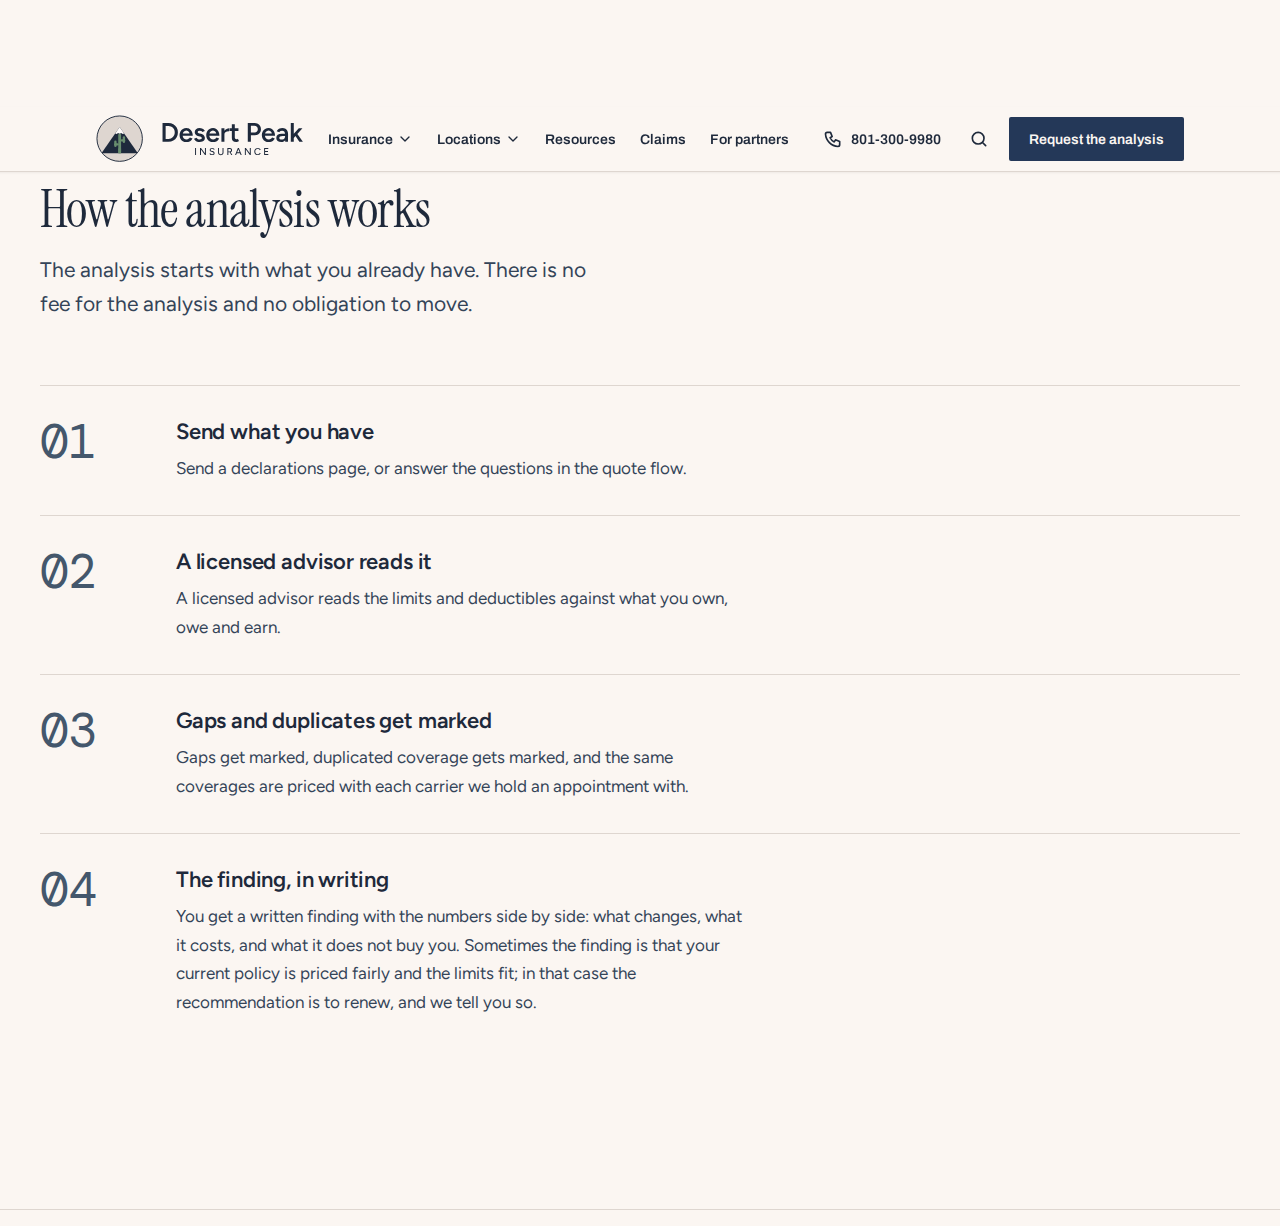
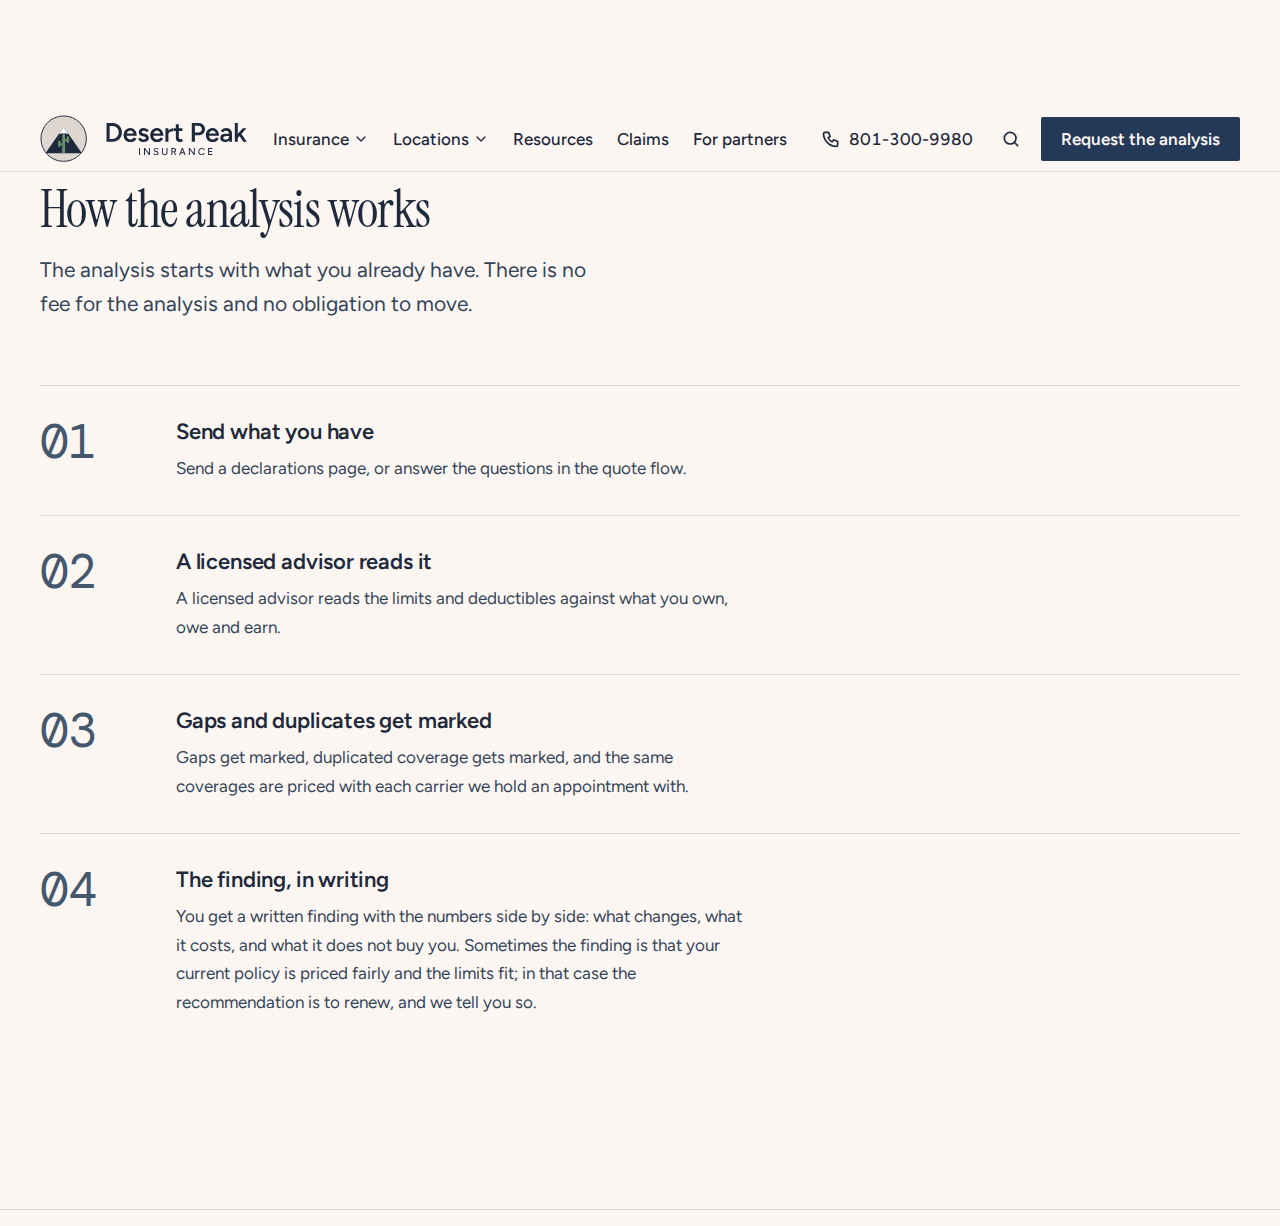
feat(shell): header and footer on the editorial system (phase 5)
Header: transparent over the hero, taking the page surface and a hairline
once the reader is 80px down (was 24px, and it carried a shadow and a
permanent border). Nav, phone and CTA at 17px Figtree; the mega-menu's group
labels are mono eyebrows and its panel lost its shadow — a hairline does the
lifting. Shell width 1280 with the fluid gutter.

Footer: mono column headings, hairline dividers between the five columns,
links at 17px with 44px targets, and the compliance strip at 17px in
ink-inverse-secondary (10.20:1) rather than 12px. That strip is legal text
for an audience that skews older; it is now set to be read. Every link and
every disclosure is unchanged in wording, placement and visibility.

One conflict with §5: "phone number always visible ≥1024px". At 17px nav the
bar cannot hold the lockup, five entries, the number, search and the CTA at
1024 — the first pass overflowed the viewport by 24px. The number stays an
icon with a screen-reader label from 1024 and shows in full from 1280, as
DECISIONS.md already records; trimming the horizontal padding below xl got
the bar back inside 1024. Dropping the CTA instead would have cost the page
its one primary action on that whole range.

Checked at 320/768/1024/1280/1920: no horizontal scroll, no interactive
target under 44px in the shell (the 1px item is the sr-only skip link, which
takes its padding on focus), and the header's two states measure transparent
at rest and surface + hairline at 300px of scroll.
[…]

Changed region(s): [[0.0312, 0.093, 0.9688, 0.155]]

diff --git a/src/components/site/header.tsx b/src/components/site/header.tsx
@@ -25,15 +25,15 @@ export async function Header() {
   const [site, products, allStates] = await Promise.all([getSiteSettings(), getProducts(), getStates()]);
   const states = orderStates(allStates);
   const groups = GROUPS.map((g) => ({ ...g, ...groupProducts(products, g.key) }));
-  const top = "ui-link flex min-h-11 items-center gap-1 whitespace-nowrap px-2 font-sans text-small font-semibold text-ink hover:text-brand";
-  const item = "ui-link block min-h-6 py-1 font-sans text-small text-ink hover:text-brand";
-  const panel = "absolute left-0 top-full z-30 mt-1 hidden rounded-surface border border-border bg-surface-raised p-6 shadow-2 group-open:block";
+  const top = "ui-link flex min-h-11 items-center gap-1 whitespace-nowrap px-1 font-text text-copy font-medium text-ink hover:text-brand xl:px-2";
+  const item = "ui-link block min-h-11 font-text text-copy text-ink hover:text-brand";
+  const panel = "absolute left-0 top-full z-30 hidden rounded-surface border border-border bg-surface-raised p-6 group-open:block";
   const quick = [...products.filter((p) => p.tier === "1").slice(0, 4).map((p) => ({ label: p.name, href: productPath(p) })), ...states.map((s) => ({ label: s.name, href: statePath(s) })), { label: "Glossary", href: "/resources/glossary/" }];
   return (
-    <header data-shell-header data-compact="false" className="sticky top-0 z-40 border-b border-border bg-logo-ground shadow-0">
+    <header data-shell-header data-compact="false" className="sticky top-0 z-40">
       <HeaderBehaviour />
-      <a href="#main" className="sr-only focus:not-sr-only focus:absolute focus:left-4 focus:top-4 focus:z-50 focus:rounded-control focus:bg-surface-raised focus:px-4 focus:py-2 focus:font-sans focus:text-small">Skip to content</a>
-      <div className="shell-bar mx-auto flex max-w-measure-page items-center justify-between gap-4 px-4 md:px-8">
+      <a href="#main" className="sr-only focus:not-sr-only focus:absolute focus:left-4 focus:top-4 focus:z-50 focus:rounded-control focus:bg-surface-raised focus:px-4 focus:py-2 focus:font-text focus:text-copy">Skip to content</a>
+      <div className="shell-bar shell flex items-center justify-between gap-4">
         <Link href="/" className="ui-link shrink-0 py-2" aria-label="Desert Peak Insurance, home">
           <span className="lockup-full"><Lockup height="header" /></span>
           <span className="lockup-mark"><Mark height={40} /></span>
@@ -47,7 +47,7 @@ export async function Header() {
                   <div className="grid gap-6 sm:grid-cols-2 lg:grid-cols-4">
                     {groups.map((g) => (
                       <div key={g.key}>
-                        <p className="mb-2 font-sans text-small font-semibold text-ink">{g.name}</p>
+                        <p className="eyebrow mb-2">{g.name}</p>
                         {g.headline.map((p) => <Link key={p.id} href={productPath(p)} className={item}>{p.name}</Link>)}
                       </div>
                     ))}
@@ -70,12 +70,12 @@ export async function Header() {
         </nav>
         <div className="flex shrink-0 items-center gap-1 sm:gap-2">
           {site.phoneHref ? (
-            <a href={site.phoneHref} className="ui-link inline-flex min-h-11 min-w-11 items-center justify-center gap-2 rounded-control px-2 font-sans text-small font-semibold text-ink hover:bg-surface-sunken" data-contact>
+            <a href={site.phoneHref} className="ui-link inline-flex min-h-11 min-w-11 items-center justify-center gap-2 rounded-control px-2 font-text text-copy font-medium text-ink hover:bg-surface-sunken" data-contact>
               <IconPhone /> <span className="hidden whitespace-nowrap xl:inline tabular">{site.phone}</span><span className="sr-only xl:hidden">Call {site.phone}</span>
             </a>
           ) : null}
           <SearchDialog quickLinks={quick.map((q) => <Link key={q.href} href={q.href} className="ui-link text-brand">{q.label}</Link>)} />
-          <Link href="/quote/" className="hidden min-h-11 items-center whitespace-nowrap rounded-control bg-brand px-5 font-sans text-small font-semibold text-brand-ink no-underline hover:bg-brand-hover sm:inline-flex">{CTA}</Link>
+          <Link href="/quote/" className="hidden min-h-11 items-center whitespace-nowrap rounded-control bg-brand px-4 font-text text-copy font-semibold text-brand-ink no-underline hover:bg-brand-hover sm:inline-flex xl:px-5">{CTA}</Link>
           <details data-drawer className="group lg:hidden">
             <summary className="inline-flex min-h-11 min-w-11 items-center justify-center rounded-control border border-border-strong text-ink" aria-label="Menu">
               <span className="group-open:hidden"><IconMenu /></span><span className="hidden group-open:inline"><IconClose /></span>
@@ -84,24 +84,24 @@ export async function Header() {
               <nav aria-label="Primary, phone" className="grid content-start gap-6 px-4 py-6">
                 {groups.map((g) => (
                   <div key={g.key} className="grid gap-1">
-                    <p className="font-sans text-small font-semibold text-ink-muted">{g.name}</p>
-                    {g.headline.map((p) => <Link key={p.id} href={productPath(p)} className="ui-link min-h-11 font-sans text-body text-ink">{p.name}</Link>)}
+                    <p className="eyebrow">{g.name}</p>
+                    {g.headline.map((p) => <Link key={p.id} href={productPath(p)} className="ui-link min-h-11 font-text text-copy text-ink">{p.name}</Link>)}
                   </div>
                 ))}
-                <Link href="/insurance/" className="ui-link min-h-11 font-sans text-body font-semibold text-brand">All {products.length} lines</Link>
+                <Link href="/insurance/" className="ui-link min-h-11 font-text text-copy font-semibold text-brand">All {products.length} lines</Link>
                 <div className="grid gap-1 border-t border-border pt-6">
-                  <p className="font-sans text-small font-semibold text-ink-muted">Licensed in</p>
-                  {states.map((s) => <Link key={s.id} href={statePath(s)} className="ui-link min-h-11 font-sans text-body text-ink">{s.name}</Link>)}
-                  <Link href="/locations/" className="ui-link min-h-11 font-sans text-body font-semibold text-brand">Every city</Link>
+                  <p className="eyebrow">Licensed in</p>
+                  {states.map((s) => <Link key={s.id} href={statePath(s)} className="ui-link min-h-11 font-text text-copy text-ink">{s.name}</Link>)}
+                  <Link href="/locations/" className="ui-link min-h-11 font-text text-copy font-semibold text-brand">Every city</Link>
                 </div>
                 <div className="grid gap-1 border-t border-border pt-6">
-                  {TOP.map(([label, href]) => <Link key={href} href={href} className="ui-link min-h-11 font-sans text-body text-ink">{label}</Link>)}
-                  <Link href="/contact/" className="ui-link min-h-11 font-sans text-body text-ink">Contact</Link>
+                  {TOP.map(([label, href]) => <Link key={href} href={href} className="ui-link min-h-11 font-text text-copy text-ink">{label}</Link>)}
+                  <Link href="/contact/" className="ui-link min-h-11 font-text text-copy text-ink">Contact</Link>
                 </div>
               </nav>
               <div className="sticky bottom-0 mt-auto grid grid-cols-2 gap-3 border-t border-border bg-surface-raised px-4 py-3">
-                {site.phoneHref ? <a href={site.phoneHref} className="inline-flex min-h-11 items-center justify-center gap-2 rounded-control border border-border-strong font-sans text-small font-semibold text-ink no-underline tabular"><IconPhone />{site.phone}</a> : <span />}
-                <Link href="/quote/" className="inline-flex min-h-11 items-center justify-center rounded-control bg-brand px-4 font-sans text-small font-semibold text-brand-ink no-underline">{CTA}</Link>
+                {site.phoneHref ? <a href={site.phoneHref} className="inline-flex min-h-11 items-center justify-center gap-2 rounded-control border border-border-strong font-text text-copy font-semibold text-ink no-underline tabular"><IconPhone />{site.phone}</a> : <span />}
+                <Link href="/quote/" className="inline-flex min-h-11 items-center justify-center rounded-control bg-brand px-4 font-text text-copy font-semibold text-brand-ink no-underline">{CTA}</Link>
               </div>
             </div>
           </details>

diff --git a/src/components/site/footer.tsx b/src/components/site/footer.tsx
@@ -7,7 +7,9 @@ import { IconFacebook, IconInstagram } from "../ui/icons.tsx";
 import { Lockup } from "../ui/logo.tsx";
 
 /**
- * Footer on surface-inverse (the neutral-950 token). Contact block, five
+ * Footer on surface-inverse. Mono column headings, hairline dividers, links and disclosures at body size —
+ * the compliance strip is legal text for an audience that skews older, so it is set to be read, not to be
+ * technically present. Contact block, five
  * columns, then the compliance strip in this order: independent-agency line,
  * licensed-states line with each state's disclosure page, the Medicare TPMO
  * disclaimer on every page, the copyright, social as labelled icons. Long
@@ -16,35 +18,35 @@ import { Lockup } from "../ui/logo.tsx";
 export async function Footer() {
   const [site, compliance, products, allStates] = await Promise.all([getSiteSettings(), getCompliance(), getProducts(), getStates()]);
   const states = orderStates(allStates);
-  const col = "grid content-start gap-2 font-sans text-small";
-  const head = "mb-1 font-sans text-small font-semibold text-ink-inverse";
-  const link = "ui-link text-ink-inverse";
+  const col = "grid content-start gap-1 font-text text-copy";
+  const head = "eyebrow mb-3 text-ink-inverse-secondary";
+  const link = "ui-link min-h-11 text-ink-inverse";
   const groups = GROUPS.map((g) => ({ ...g, ...groupProducts(products, g.key) }));
   const address = site.address && [site.address.street, site.address.city, site.address.zip].some((v) => v && !hasTodo(v)) ? site.address : null;
   const year = new Date().getFullYear();
   return (
     <footer data-inverse className="mt-16 bg-logo-ground-inverse text-ink-inverse [overflow-wrap:anywhere] print:hidden">
-      <div className="mx-auto grid max-w-measure-page gap-10 px-4 py-12 md:grid-cols-3 lg:grid-cols-[2fr_1fr_1fr_1fr_1fr_1fr] md:px-8">
+      <div className="shell grid gap-10 py-20 md:grid-cols-3 lg:grid-cols-[2fr_1fr_1fr_1fr_1fr_1fr] lg:gap-0">
         <div className="grid content-start gap-4 md:col-span-3 lg:col-span-1">
           <Link href="/" className="ui-link w-fit py-2 text-ink-inverse no-underline" aria-label="Desert Peak Insurance, home"><Lockup reversed height={56} lazy /></Link>
-          <div className="grid gap-1 font-sans text-small">
+          <div className="grid gap-1 font-text text-copy">
             {site.phoneHref ? <a href={site.phoneHref} className={`${link} tabular`} data-contact>{site.phone}</a> : null}
             {site.email ? <a href={`mailto:${site.email}`} className={link}>{site.email}</a> : null}
             {address ? <p className="text-ink-inverse">{[address.street, [address.city, typeof address.state === "object" ? address.state?.abbr : null].filter(Boolean).join(", "), address.zip].filter((v) => v && !hasTodo(v)).join(" · ")}</p> : null}
             <Link href="/contact/" className={link}>Contact</Link>
           </div>
         </div>
-        <nav aria-label="Insurance" className={col}>
+        <nav aria-label="Insurance" className={`${col} lg:border-l lg:border-ink-inverse/25 lg:pl-6`}>
           <p className={head}>Insurance</p>
           {groups.map((g) => <Link key={g.key} href={`/insurance/#g-${g.category}`} className={link}>{g.name}</Link>)}
           <Link href="/insurance/" className={`${link} font-semibold`}>All lines</Link>
         </nav>
-        <nav aria-label="Licensed in" className={col}>
+        <nav aria-label="Licensed in" className={`${col} lg:border-l lg:border-ink-inverse/25 lg:pl-6`}>
           <p className={head}>Licensed in</p>
           {states.map((s) => <Link key={s.id} href={statePath(s)} className={link}>{s.name}</Link>)}
           <Link href="/locations/" className={`${link} font-semibold`}>Every city</Link>
         </nav>
-        <nav aria-label="Resources" className={col}>
+        <nav aria-label="Resources" className={`${col} lg:border-l lg:border-ink-inverse/25 lg:pl-6`}>
           <p className={head}>Resources</p>
           <Link href="/resources/" className={link}>Guides</Link>
           <Link href="/resources/glossary/" className={link}>Glossary</Link>
@@ -52,12 +54,12 @@ export async function Footer() {
           <Link href="/about/editorial-policy/" className={link}>Editorial policy</Link>
           <Link href="/billing/" className={link}>Billing</Link>
         </nav>
-        <nav aria-label="For partners" className={col}>
+        <nav aria-label="For partners" className={`${col} lg:border-l lg:border-ink-inverse/25 lg:pl-6`}>
           <p className={head}>For partners</p>
           <Link href="/partners/" className={link}>Work with us</Link>
           <Link href="/partners/portal/" className={link}>Partner portal</Link>
         </nav>
-        <nav aria-label="Legal" className={col}>
+        <nav aria-label="Legal" className={`${col} lg:border-l lg:border-ink-inverse/25 lg:pl-6`}>
           <p className={head}>Legal</p>
           <Link href="/legal/privacy-policy/" className={link}>Privacy</Link>
           <Link href="/legal/terms-of-use/" className={link}>Terms</Link>
@@ -66,8 +68,8 @@ export async function Footer() {
           <Link href="/sitemap/" className={link}>Site map</Link>
         </nav>
       </div>
-      <div className="border-t border-ink-muted">
-        <div className="mx-auto grid max-w-measure-page gap-3 px-4 py-6 font-sans text-caption text-ink-inverse md:px-8">
+      <div className="border-t border-ink-inverse/25">
+        <div className="shell grid gap-4 py-10 font-text text-copy text-ink-inverse-secondary">
           <p data-disclosure="independentAgency">{compliance.independentAgencyDisclosure}</p>
           <p data-disclosure="licensedStates">
             Licensed in {states.map((s, i) => <span key={s.id}>{i > 0 ? (i === states.length - 1 ? " and " : ", ") : ""}<Link href={`/legal/licensing/${s.slug}/`} className={link}>{s.name}</Link></span>)}. Each state&rsquo;s licensing disclosure lists the license number.

diff --git a/app/(frontend)/globals.css b/app/(frontend)/globals.css
@@ -102,6 +102,10 @@
   .cf-turnstile iframe { display: block; }
   /* tokens-ok: the kicker's 0.08em tracking is specified in BRAND-GUIDE.md §3 ("uppercase with 0.08em tracking") and has no token of its own */
   .kicker { font-family: var(--dp-font-sans); font-size: var(--dp-text-caption-size); line-height: var(--dp-text-caption-line-height); font-weight: var(--dp-text-caption-weight); letter-spacing: 0.08em; text-transform: uppercase; color: var(--dp-ink-muted); }
+  /* The bar is transparent over the hero and takes the page surface plus a hairline once the reader has scrolled past
+     the fold's first 80 px. Sticky, not fixed, so the transparent state shows the page's own ground, never content. */
+  [data-shell-header] { background: transparent; border-bottom: 1px solid transparent; transition: background var(--dp-duration-base) var(--dp-ease-standard), border-color var(--dp-duration-base) var(--dp-ease-standard); }
+  [data-shell-header][data-compact="true"] { background: var(--dp-surface); border-bottom-color: var(--dp-border); }
   /* Header bar: 64 px on phones (56 once the page has scrolled), 80 px from 768 px (64 scrolled) so the 48 px lockup has room; data-compact is set by header-client.tsx. */
   .shell-bar { height: var(--dp-space-16); transition: height var(--dp-duration-fast) var(--dp-ease-standard); }
   [data-compact="true"] .shell-bar { height: calc(var(--spacing) * 14); }

diff --git a/src/components/site/header-client.tsx b/src/components/site/header-client.tsx
@@ -8,7 +8,7 @@ import { IconClose, IconSearch } from "../ui/icons.tsx";
 /**
  * Progressive enhancement for the shell. Without JavaScript the header is
  * complete: <details> menus, a <details> drawer and a search link. With it:
- *  - the header compresses (64 → 56 px on phones, 80 → 64 px from 768 px) after the page scrolls;
+ *  - the header compresses (64 → 56 px on phones, 80 → 64 px from 768 px) and takes its surface and hairline once the page has scrolled past 80 px;
  *  - only one desktop menu is open at a time, Escape and an outside click close it;
  *  - the phone drawer locks body scroll, traps focus, closes on Escape and on
  *    route change;
@@ -20,7 +20,7 @@ export function HeaderBehaviour() {
   useEffect(() => {
     const header = document.querySelector<HTMLElement>("[data-shell-header]");
     if (!header) return;
-    const onScroll = () => header.setAttribute("data-compact", window.scrollY > 24 ? "true" : "false");
+    const onScroll = () => header.setAttribute("data-compact", window.scrollY > 80 ? "true" : "false");
     onScroll();
     window.addEventListener("scroll", onScroll, { passive: true });
     const menus = [...header.querySelectorAll<HTMLDetailsElement>("details[data-menu]")];
